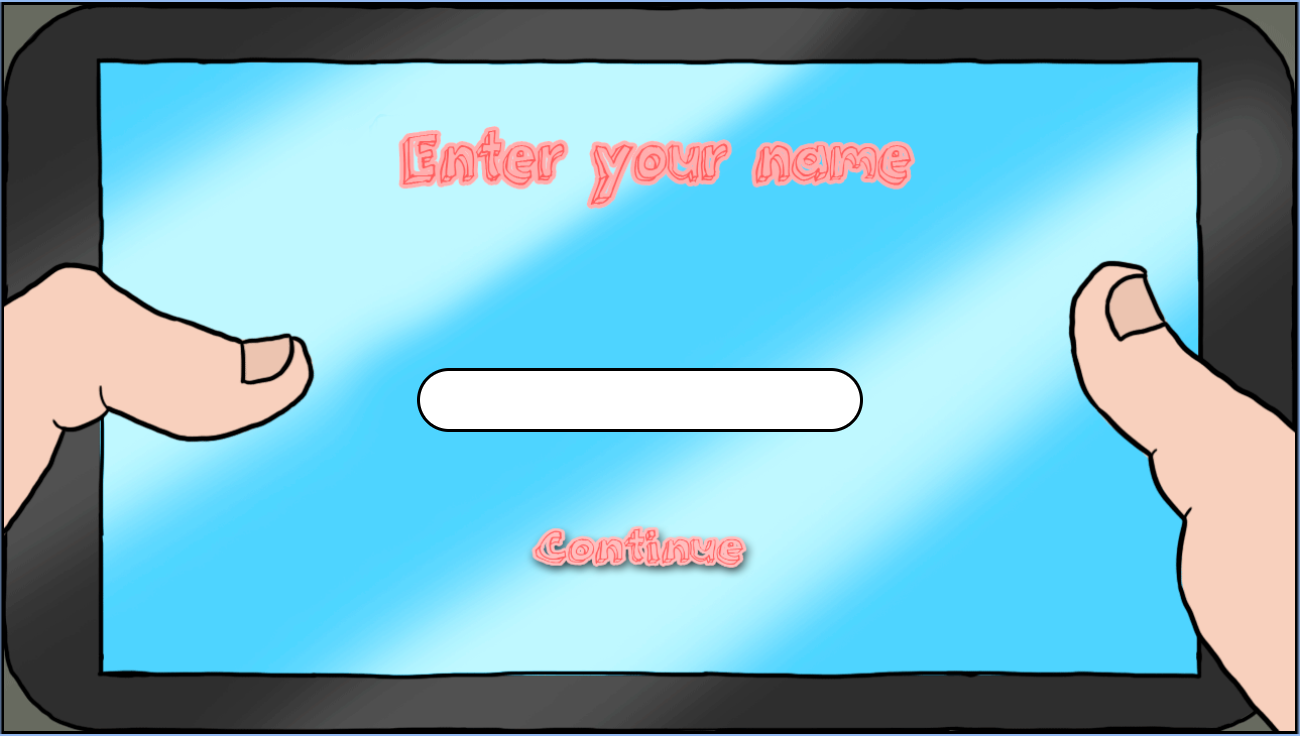
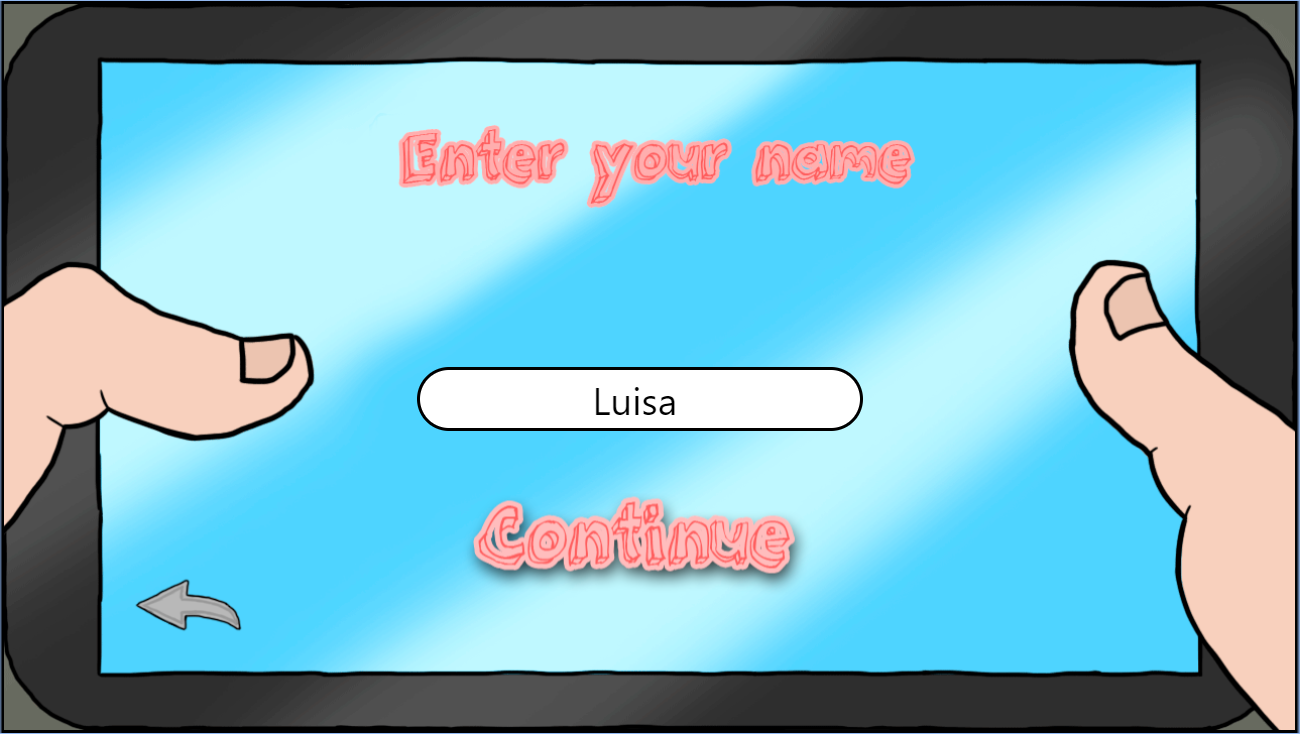
Another Markdown actualisassione
Cambiada imagen y añadido titulo

diff --git a/Readme.md b/Readme.md
@@ -1,4 +1,4 @@
-# Timmy is Happy
+## ![image alt text](assets/GDD/Title.png)
 
 * * *
 
